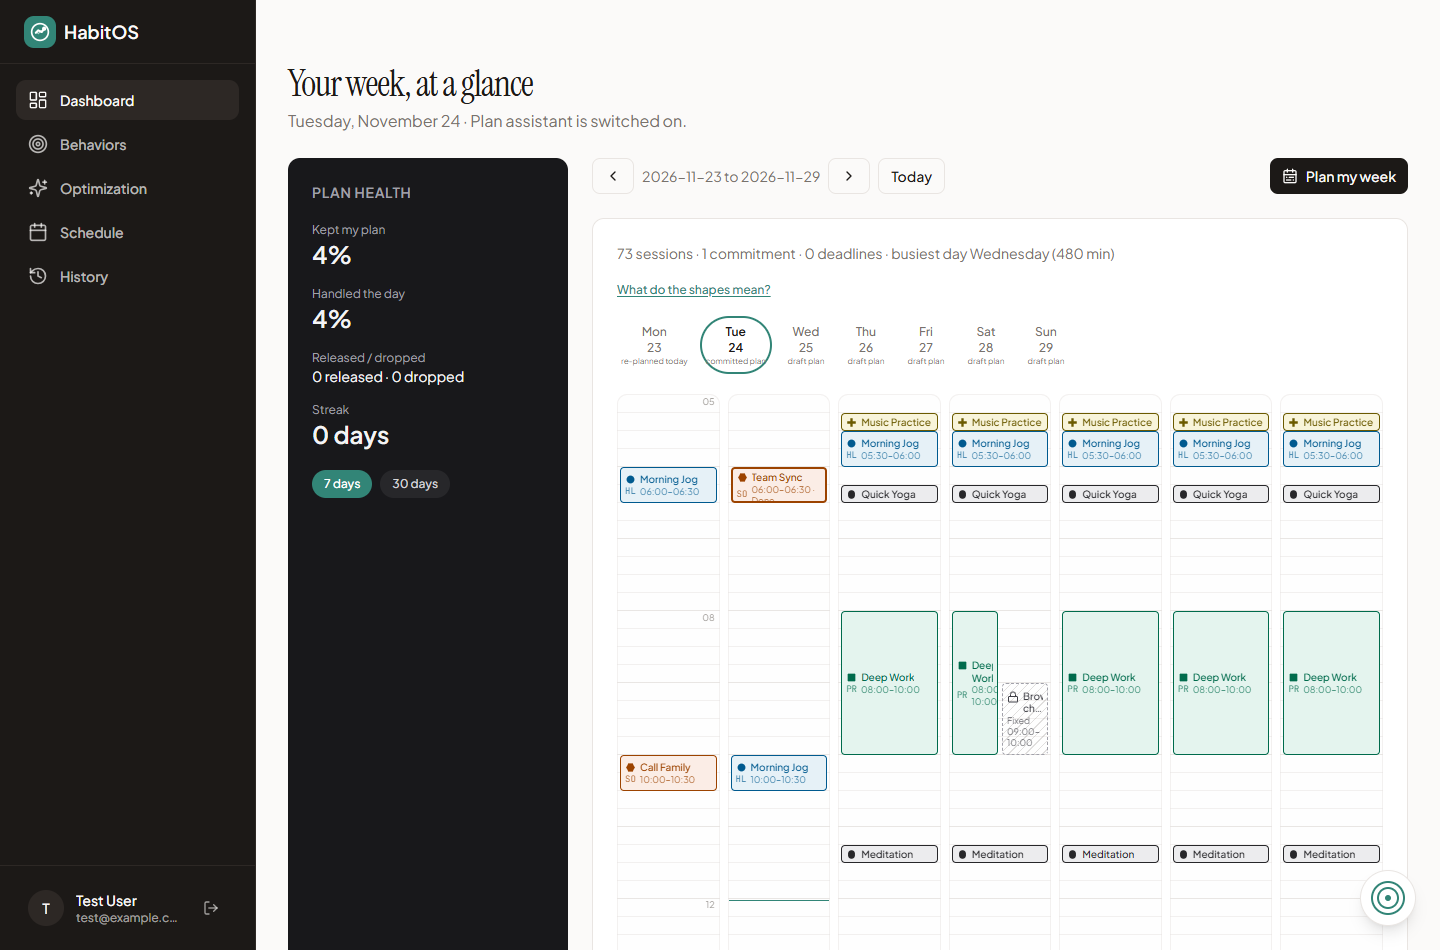
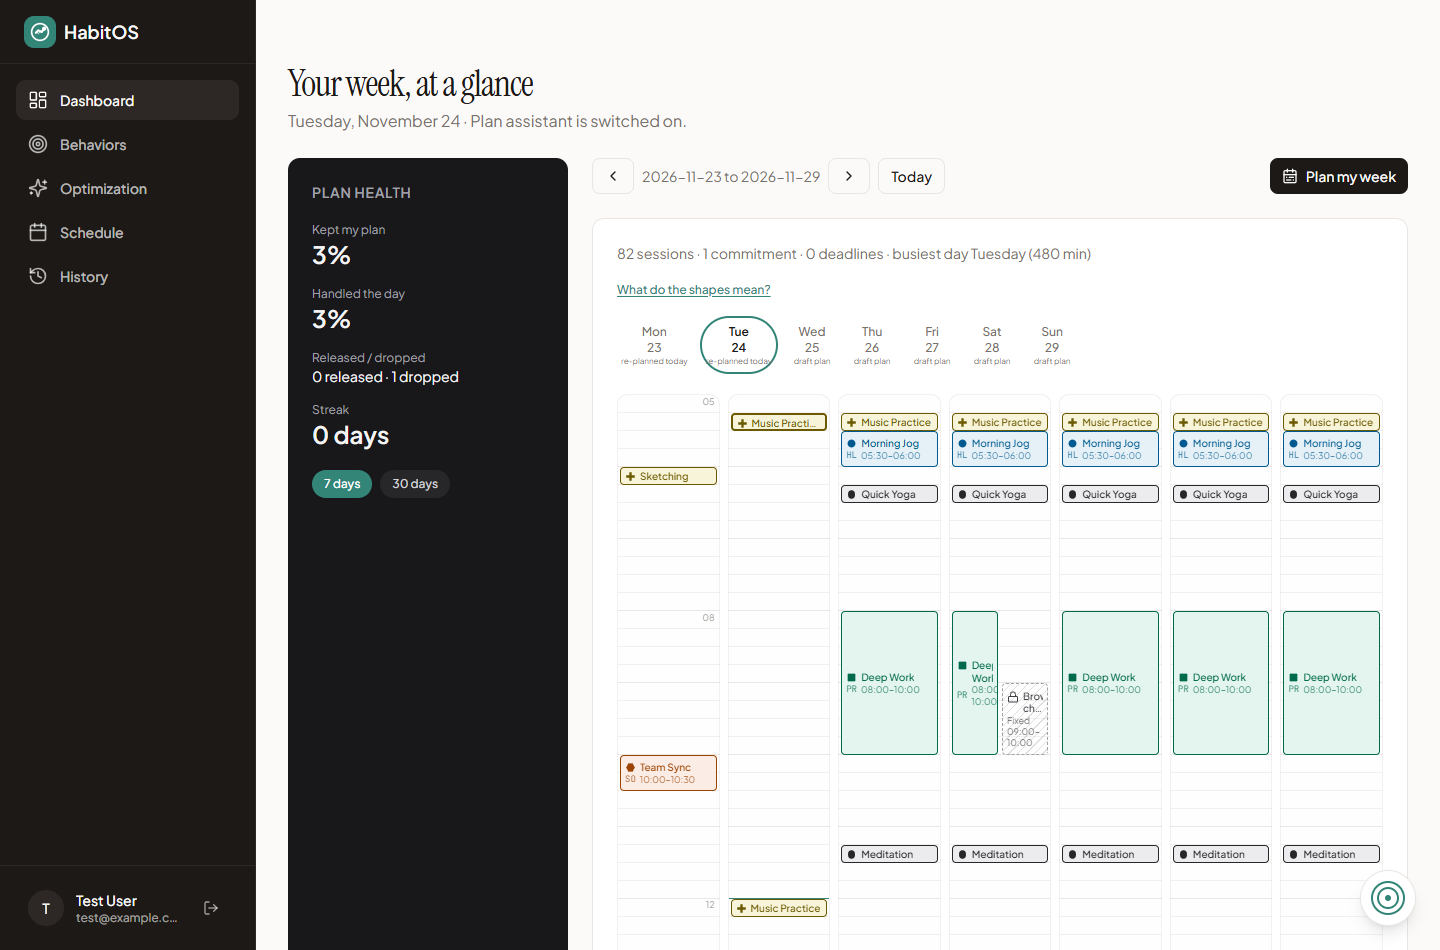
fix(week-planning): stop partial solves from filling elapsed gaps
Also diff protected sessions against the full current plan so a re-plan reports no changes for carried completions. Regenerate pinned browser evidence with 6 plannable days and update PHASE_REPORT.md.

diff --git a/backend/app/optimization/solvers/candidate.py b/backend/app/optimization/solvers/candidate.py
@@ -164,6 +164,7 @@ class CandidateSolver:
         optimization_run_id: UUID,
         frozen_periods: Dict[int, Dict[int, int]],
         previous_starts: Optional[Dict[int, int]] = None,
+        earliest_start: Optional[int] = None,
     ) -> OptimizationSolution:
         """Re-solve the future with every elapsed period pinned to its record.
 
@@ -171,6 +172,10 @@ class CandidateSolver:
         session in the plan being replaced. Carried sessions pay
         ``STABILITY_LAMBDA_PER_MINUTE`` per minute they move from that start,
         so the re-plan keeps sessions still unless moving earns its keep.
+
+        *earliest_start* is the first period that may hold a new session. Frozen
+        pins end before "now" when there is a gap in the old plan; without this
+        bound the solver could fill that elapsed gap.
         """
         return self._solve(
             problem,
@@ -178,6 +183,7 @@ class CandidateSolver:
             frozen_periods=frozen_periods,
             forced_ids=(),
             previous_starts=previous_starts,
+            earliest_start=earliest_start,
         )
 
     def solve_forced(
@@ -206,6 +212,7 @@ class CandidateSolver:
         forced_ids: Set[str],
         solver_name: Optional[str] = None,
         previous_starts: Optional[Dict[int, int]] = None,
+        earliest_start: Optional[int] = None,
     ) -> OptimizationSolution:
         started = time.perf_counter()
         partial = frozen_periods is not None
@@ -221,7 +228,10 @@ class CandidateSolver:
 
         periods = problem.time_periods
         all_frozen = {t for pins in frozen_periods.values() for t in pins}
-        earliest_free = max(all_frozen) + 1 if all_frozen else 0
+        earliest_after_pins = max(all_frozen) + 1 if all_frozen else 0
+        # Pins mark old sessions, not the current clock. A gap between the last
+        # pin and "now" is still elapsed time and cannot hold a new session.
+        earliest_free = max(earliest_after_pins, earliest_start or 0)
 
         frozen_items: List[ScheduleItem] = []
         frozen_minutes: Dict[int, int] = {}

diff --git a/backend/tests_integration/test_week_planning.py b/backend/tests_integration/test_week_planning.py
@@ -528,12 +528,13 @@ async def test_partly_done_monday_preserves_protected_sessions_and_retires_dropp
     preview = await _preview(auth_client, plan_day())
     today = preview["days"][0]
     protected_ids = {
-        completed.planned_session_id,
-        in_progress.planned_session_id,
-        released.planned_session_id,
+        str(completed.planned_session_id),
+        str(in_progress.planned_session_id),
+        str(released.planned_session_id),
     }
     diff_ids = {
-        item["plannedSessionId"] for item in today["moved"] + today["dropped"]
+        item["plannedSessionId"]
+        for item in today["added"] + today["moved"] + today["dropped"]
     }
     assert protected_ids.isdisjoint(diff_ids), today
     assert str(dropped.planned_session_id) in diff_ids
@@ -571,7 +572,7 @@ async def test_partly_done_monday_preserves_protected_sessions_and_retires_dropp
         )
     ).scalars().one()
     carried = {
-        row.planned_session_id
+        str(row.planned_session_id)
         for row in (
             await db_session.execute(
                 select(ScheduledBehavior).where(

diff --git a/backend/tests/test_candidate_solver.py b/backend/tests/test_candidate_solver.py
@@ -111,6 +111,22 @@ def test_frozen_periods_are_never_replanned():
     assert validate_schedule(problem, solution.schedule_items) == []
 
 
+def test_partial_solve_respects_earliest_start_even_with_a_gap():
+    # The last frozen cell ends at 29, but "now" is 40: a gap is still elapsed
+    # time and must not be filled by a new session.
+    behavior = _behavior(lo=60, hi=60)
+    problem = _problem([behavior])
+    frozen = {0: {28: 1}}
+    solution = CandidateSolver(timeout_seconds=10).solve_partial_day(
+        problem, uuid4(), frozen, earliest_start=40
+    )
+
+    planned = [i for i in solution.schedule_items if i.time_period != 28]
+    assert planned, "the remaining minutes must still be planned"
+    assert min(i.time_period for i in planned) >= 40
+    assert validate_schedule(problem, solution.schedule_items) == []
+
+
 def test_behaviour_with_no_room_is_declined_not_dropped():
     # Two hours of midday, all of it already elapsed: nothing is left to place,
     # and the behaviour is reported rather than silently dropped.

diff --git a/backend/app/services/week_planning.py b/backend/app/services/week_planning.py
@@ -497,6 +497,7 @@ async def _solve_day(inputs: DayInputs, low_priority: bool) -> OptimizationSolut
             timeout_seconds=settings.OPTIMIZATION_TIMEOUT_SECONDS,
             low_priority=low_priority,
             previous_starts=inputs.previous_starts or {},
+            earliest_start=inputs.current_period or 0,
         )
     return await run_in_solver_pool(
         solver.solve,
@@ -742,7 +743,10 @@ async def _prepare_day(
     planned, plannable_current = _merge_protected(
         inputs, solution.schedule_items, inputs.current_sessions
     )
-    added, moved, dropped = _diff_sessions(plannable_current, planned)
+    # Compare against every current session, including protected ones. They are
+    # carried into `planned` unchanged; diffing against `plannable_current`
+    # would falsely report them as added or moved on every re-plan.
+    added, moved, dropped = _diff_sessions(inputs.current_sessions, planned)
     return PreparedDay(
         inputs=inputs,
         solution=solution,

diff --git a/PHASE_REPORT.md b/PHASE_REPORT.md
@@ -1351,32 +1351,48 @@ seven-day solve or apply/preview UI is added.
 
 **Changed**
 
-- `GET /schedule` now resolves completion from `planned_session_id`, not
+- `GET /schedule` resolves completion from `planned_session_id`, not
   `optimization_run_id`. A session completed in run A stays completed after a
   re-plan creates run B, keeps its slot, and is counted once even if a duplicate
   completion log exists.
 - The week-plan dialog formats the range as `Planning Tue 24 to Sun 29` instead
-  of `Planning 24 Tue to 29 Sun`.
-- Regression coverage added in
-  `backend/tests_integration/test_week_planning.py`:
-  - completed session stays completed after re-plan and is counted once
-  - completed session is absent from `moved` and `dropped`
-  - carried-session plan-health numbers do not change; the genuinely dropped
-    session moves from `missed` to `system_dropped` exactly once
-  - a saturated solver pool makes every plannable day return a per-day
-    `solver_busy` result sourced from the 503 `SolverBusyError`
+  of `Planning 24 Tue to 29 Sun`; apply accepts explicit `dates` plus each day's
+  `resultHash`, and exposes `rangeStart`, `rangeEnd`, `resultHash` and
+  `skippedDays`.
+- Solver-busy, protected-conflict and the 25-behaviour cap are per-day
+  `Unavailable` reasons rather than whole-request failures.
+- `CandidateSolver.solve_partial_day` now accepts `earliest_start`. Week
+  planning passes the plan-local current period, so a gap between the last
+  frozen pin and "now" cannot be filled by a new session. The regression
+  `test_partial_solve_respects_earliest_start_even_with_a_gap` failed with
+  `assert 30 >= 40` before the fix and passes after it. The existing
+  `/schedule/reoptimize` contract is deliberately unchanged.
+- The week preview now diffs `planned` against **all** current sessions,
+  including protected ones. Previously protected sessions were appended to
+  `planned` but excluded from the comparison list, so a re-plan falsely
+  reported them as `added`/`moved`. The protected-session regression now
+  compares IDs as strings and checks `added` as well as `moved`/`dropped`;
+  it failed before the fix and passes after it.
+- Regression coverage in `backend/tests_integration/test_week_planning.py`:
+  completed session stays completed after re-plan and is counted once; it is
+  absent from `added`, `moved` and `dropped`; carried-session Plan Health
+  numbers do not change; the genuinely dropped session moves from `missed` to
+  `system_dropped` exactly once; a saturated solver pool makes every plannable
+  day return a per-day `solver_busy` result sourced from the 503
+  `SolverBusyError`.
 
 **Real test output**
 
 ```
-backend focused week suite: 13 passed
-backend full suite:         176 passed, 1 skipped, 1 xpassed
-frontend suite:             70 passed
+backend focused solver/week suite: 48 passed
+backend full suite:                177 passed, 1 skipped, 1 xpassed
+frontend suite:                    70 passed
 ```
 
 **Plan Health: `0 released, 2 dropped`**
 
-This is a real re-plan of **Tue 24 Nov 2026**, not stale seed data:
+That dev-data reading came from a real re-plan of **Tue 24 Nov 2026**, not stale
+seed data:
 
 - baseline run `da0edcbb81aa4ef8bba3f1f1e2f23ec1` (`plan_revision=1`) had
   5 sessions and no releases
@@ -1388,28 +1404,41 @@ This is a real re-plan of **Tue 24 Nov 2026**, not stale seed data:
   what Plan Health counts as `system_dropped=2`
 
 On the host date **Wed 25 Nov** those numbers belong to the previous day's
-baseline, so they are stale for that date.
+baseline, so they are stale for that date. The fresh pinned fixture below uses
+a solver-generated baseline and reports `systemDropped: 0` in its main preview.
 
 **Pinned browser pass**
 
 The host clock stayed on **Wed 25 Nov 2026**. The backend process was pinned to
 `2026-11-24T12:00:00Z` with `clock.fixed_now`, and Playwright installed the same
-pinned time in the page. The browser therefore saw **Tue 24 Nov 2026** while the
-system clock was not changed.
+pinned time in the page (`Tue Nov 24 2026 12:00:01 GMT+0100`). The system clock
+was not changed.
+
+To remove a fixture artefact, Tue 24's baseline was regenerated through the real
+`/optimization/solve` API and committed as the day's baseline (run
+`c02ffe7b-87ea-4dca-9e7d-437dd627be60`, `plan_revision=1`,
+`baseline_revision=1`). The earlier seeded baseline had placed `Team Sync` at
+period 24 / `06:00`, outside its `07:00-12:00` and `14:00-17:00` windows;
+completing and freezing that slot made validation reject the whole day as
+`solver_error`. That was the second unavailable day in the earlier **5 of 7**
+run, not "today frozen" by design.
 
 Actual run:
 
 - login OK; today's plan source was `committed` before the re-plan
-- one protected session was completed through the real API
+- one protected session (`c50ec005-9bf9-4fc5-b35b-e045e4c7b5a8`) was completed
+  through the real API
 - future drafts seeded through the real preview/apply API for **5 days**
-- main preview: **5 of 7 days can be planned**, **2 unavailable**
+- main preview: **6 of 7 days can be planned**, **1 unavailable**
   - `Mon 23`: `past_day`
-  - `Tue 24`: real `solver_error`, `Team Sync: period 24/25 outside its time windows`
-- apply: **5 days applied**; skips were `Mon 23 past_day` and
-  `Tue 24 not_selected`
-- the protected completed session stayed at `06:00-06:30`, stayed
+  - `Tue 24`: `todayMode: partial`, no error
+- apply: **6 days applied**; the only skip was `Mon 23 past_day`
+- the protected completed session stayed at `05:15-05:30`, stayed
   `isCompleted: true`, and remained absent from both `moved` and `dropped`
-- second run: **5** `No changes to this day.` entries
+- second run: **6** `No changes to this day.` entries; all six plannable days
+  had `added: 0`, `moved: 0`, `dropped: 0`
+- zoomed 3x headers: `Open agenda for Sunday, Nov 29 (draft plan)` and
+  `Open agenda for Tuesday, Nov 24 (committed plan)`
 - stale mutation: apply returned **409** with `week_plan_changed`; the UI showed
   **This preview is out of date.** and the refresh button
 - viewports **1366x768**, **1440x950**, **390x844** had no horizontal overflow
@@ -1437,9 +1466,8 @@ Screenshots:
 
 **Notes**
 
-- The seeded week can produce a real `solver_error` on today when the protected
-  completion forces `Team Sync` outside its time windows; that is why the live
-  apply count is 5 rather than 6. It does not affect the protected-session
-  carry-over result.
+- The earlier **5 of 7** result had two causes, both now understood: the invalid
+  seeded baseline described above, and the protected-diff bug that kept the
+  second run at five `No changes` entries even after today became plannable.
 - The zoomed header captures use a separate 3x device-scale context because CSS
   zoom produced blank element screenshots.
